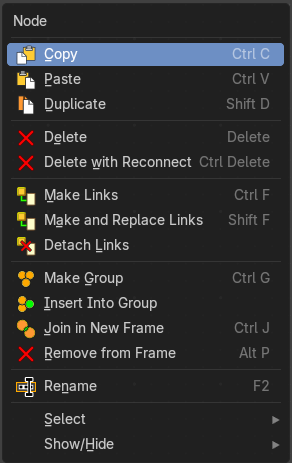
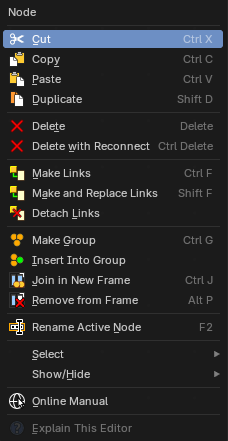
Node editors: Cut (Ctrl+X) in the context menu and Node menu (#1119)

diff --git a/docs2/content/editors/geometry-node-editor/header/index.md b/docs2/content/editors/geometry-node-editor/header/index.md
@@ -434,7 +434,7 @@ This menu contains further node functionality.
 | Move | Moves the selected nodes. |
 | Rotate | You can't rotate single nodes, obviously. But when you have more than one selected then you can rotate them around their center point. |
 | Resize | You can't resize single nodes, obviously. But when you have more than one selected then you can scale them around their center point. |
-| Cut | Cuts the selected node(s) and copies to clipboard, then removes it from the current material node setup, while reconnecting any nodes links that were connected. |
+| Cut | Copies the selected nodes to the clipboard and removes them, keeping the links around them connected. Paste them back with Paste. Hotkey **Ctrl+X**, like in most programs. |
 | Copy | Copies the selected node(s) to the clipboard, for reuse with the paste operator in the current or other instances of Bforartists that are open. |
 | Paste | Pastes the selected node(s) from the above mention copy operator that are in the clipboard, in the current session of Bforartists or another instance that are open. |
 | Duplicate Keep Input | This works at nodes that have a connected input. Duplicating will keep the input connections established in the duplicated node. The output connections will be removed. |

diff --git a/docs2/content/editors/shader-editor/header/index.md b/docs2/content/editors/shader-editor/header/index.md
@@ -432,7 +432,7 @@ This menu contains further node functionality.
 | Move | Moves the selected nodes. |
 | Rotate | You can't rotate single nodes, obviously. But when you have more than one selected then you can rotate them around their center point. |
 | Resize | You can't resize single nodes, obviously. But when you have more than one selected then you can scale them around their center point. |
-| Cut | Cuts the selected node(s) and copies to clipboard, then removes it from the current material node setup, while reconnecting any nodes links that were connected. |
+| Cut | Copies the selected nodes to the clipboard and removes them, keeping the links around them connected. Paste them back with Paste. Hotkey **Ctrl+X**, like in most programs. |
 | Copy | Copies the selected node(s) to the clipboard, for reuse with the paste operator in the current or other instances of Bforartists that are open. |
 | Paste | Pastes the selected node(s) from the above mention copy operator that are in the clipboard, in the current session of Bforartists or another instance that are open. |
 | Duplicate Keep Input | This works at nodes that have a connected input. Duplicating will keep the input connections established in the duplicated node. The output connections will be removed. |

diff --git a/docs2/content/editors/compositor/index.md b/docs2/content/editors/compositor/index.md
@@ -98,6 +98,7 @@ Search for nodes, and hilight them. When you are in a node group then it lists t
 | Cut Links | Calls a cut tool with which you can cut links between nodes |
 | Mute Links | Calls a cut tool with which you mute cut links between nodes. To unmute the links use the same tool again. |
 | Exit Group | Same as Edit Group. When you are in a group then you can end editing with this operator. |
+| Cut | Copies the selected nodes and removes them, keeping the links around them connected. Paste them back with Paste. Hotkey **Ctrl+X**. |
 | Copy | Copies the selected nodes. |
 | Paste | Pastes the copied nodes. |
 | Duplicate | Duplicates the selected nodes. |

diff --git a/docs2/content/editors/shader-editor/index.md b/docs2/content/editors/shader-editor/index.md
@@ -89,6 +89,7 @@ Search for nodes, and hilight them. When you are in a node group then it lists t
 | Cut Links | Calls a cut tool with which you can cut links between nodes |
 | Mute Links | Calls a cut tool with which you mute cut links between nodes. To unmute the links use the same tool again. |
 | Exit Group | Same as Edit Group. When you are in a group then you can end editing with this operator. |
+| Cut | Copies the selected nodes and removes them, keeping the links around them connected. Paste them back with Paste. Hotkey **Ctrl+X**. |
 | Copy | Copies the selected nodes. |
 | Paste | Pastes the copied nodes. |
 | Duplicate | Duplicates the selected nodes. |

diff --git a/docs2/content/editors/geometry-node-editor/index.md b/docs2/content/editors/geometry-node-editor/index.md
@@ -101,6 +101,7 @@ Search for nodes, and hilight them. When you are in a node group then it lists t
 | Mute Links | Calls a cut tool with which you mute cut links between nodes. To unmute the links use the same tool again. |
 | Exit Group | Same as Edit Group. When you are in a group then you can end editing with this operator. |
 | Link to Viewer | Adds a viewer node to the selected node. |
+| Cut | Copies the selected nodes and removes them, keeping the links around them connected. Paste them back with Paste. Hotkey **Ctrl+X**. |
 | Copy | Copies the selected nodes. |
 | Paste | Pastes the copied nodes. |
 | Duplicate | Duplicates the selected nodes. |
